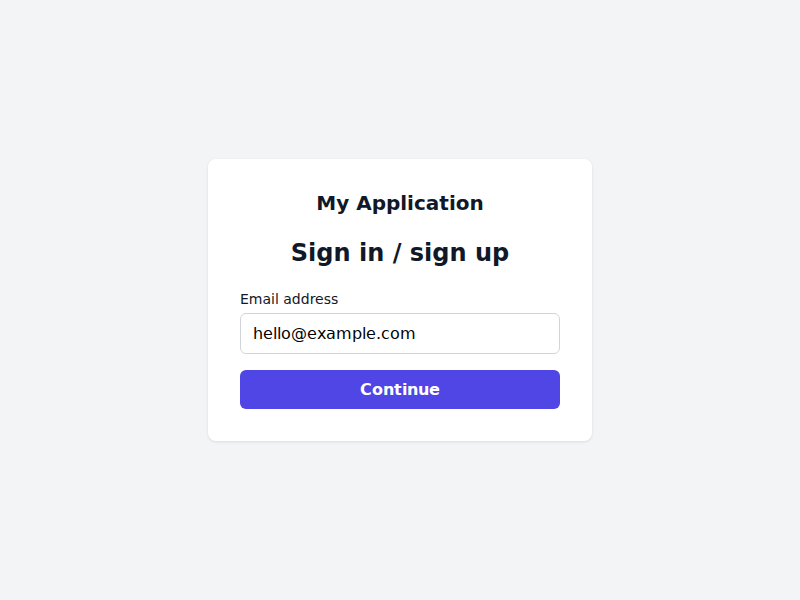
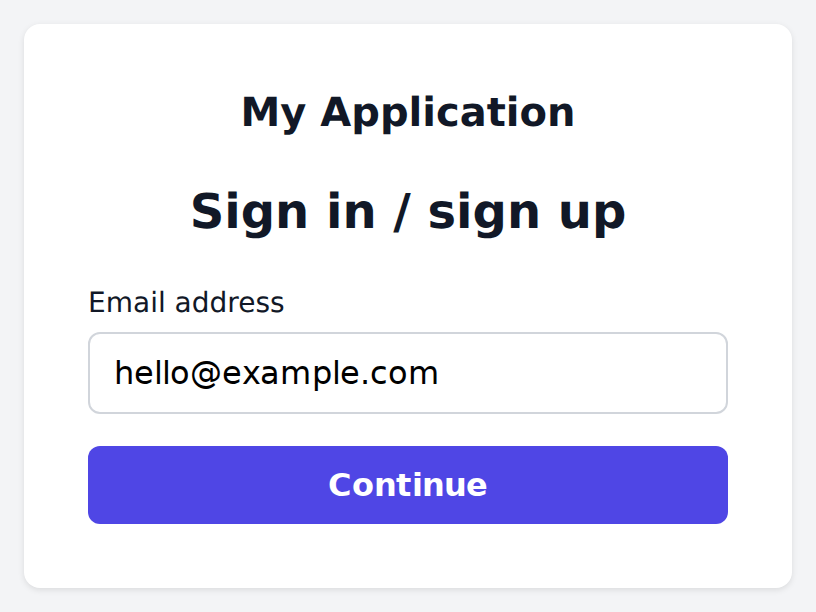
oopdate

diff --git a/libs/authenticate/README.md b/libs/authenticate/README.md
@@ -4,9 +4,12 @@ A collection of Reitit routes which provide sign-in-via-email (6-digit code)
 functionality to your web app, including a default signin page and pluggable
 captcha/email providers.
 
-| Sign in / sign up | Verify code |
-| --- | --- |
-| ![Sign in and sign up form](docs/images/signin.png) | ![Verify signin code form](docs/images/verify.png) |
+<table>
+  <tr>
+    <td><img src="docs/images/signin.png" alt="Sign in and sign up form"></td>
+    <td><img src="docs/images/verify.png" alt="Verify signin code form"></td>
+  </tr>
+</table>
 
 ### Dependency
 
